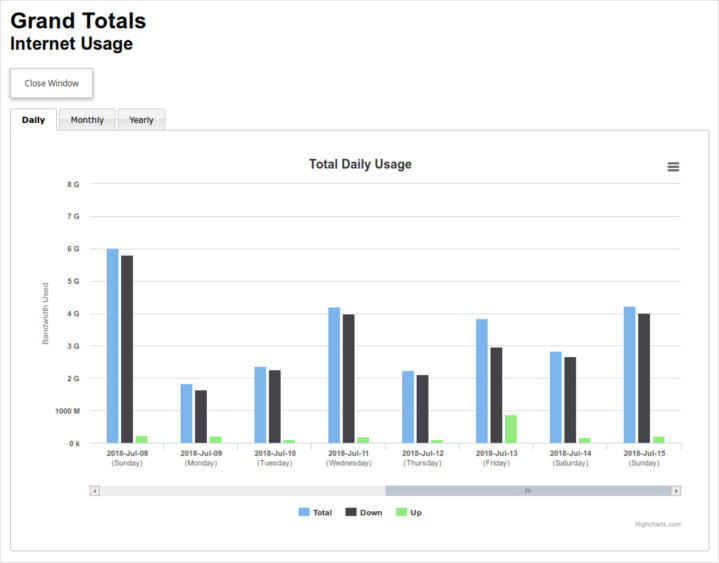
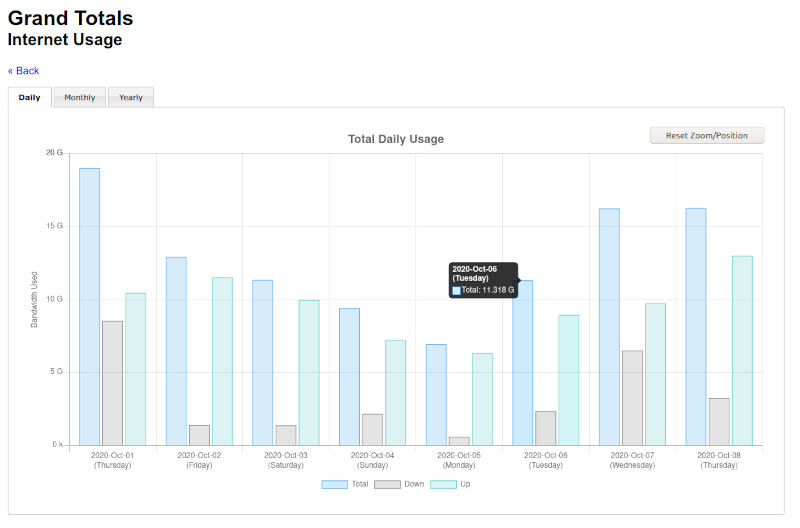
Documentation update.

diff --git a/README.md b/README.md
@@ -1,22 +1,23 @@
 # wrtbwmon-remixed
 https://github.com/nyanginator/wrtbwmon-remixed
 
-* Adapted from https://code.google.com/p/wrtbwmon/.
-* Uses HighCharts and HighStock under the non-commercial license (https://shop.highsoft.com/faq/non-commercial). For commercial use, please purchase a license from HighSoft.
-* Uses CC0 code HighChartsAdapter and runOnLoad from https://code.iamkate.com.
-* Uses SortTable from Stuart Langridge (https://www.kryogenix.org/code/browser/sorttable/).
-* Uses Tabbed Content from menucool.com (http://www.menucool.com/tabbed-content).
+* Adapted from https://code.google.com/p/wrtbwmon
+* Uses [Chart.js](https://www.chartjs.org) and the [chartjs-zoom-plugin](https://github.com/chartjs/chartjs-plugin-zoom), which requires [Hammer.js](https://hammerjs.github.io)
+* Uses [SortTable](https://www.kryogenix.org/code/browser/sorttable/) by Stuart Langridge
+* Uses [Tabbed Content](http://www.menucool.com/tabbed-content) by menucool.com
 
 Table of Contents
 =================
 * [What This Is](#what-this-is)
+  * [Original `wrtbwmon`](#original-wrtbwmon)
+  * [Overview of `wrtbwmon-remixed`](#overview-of-wrtbwmon-remixed)
 * [Setup](#setup)
   * [USB Drive](#usb-drive)
   * [Cron](#cron)
 * [Viewing the Usage](#viewing-the-usage)
 * [Config File](#config-file)
   * [Basic Settings](#basic-settings)
-  * [Watch List](#watch-list)
+  * [Watch Lists](#watch-lists)
 * [Users File](#users-file)
 * [Usage File](#usage-file)
   * [File Format](#file-format)
@@ -45,38 +46,47 @@ What This Is
   - Today Downloaded
   - Today Uploaded
   - Last Update (Last Seen)
-* Added colors, download/upload icons, and formatting.
-* Added sortable table columns.
-* Added a table search filter and totals for filtered results.
-* Added clickable rows for viewing detailed usage. Animated charts are viewable on tabs for daily, monthly, and yearly usage.
-* Added a Grand Total row.
-* Added a "Watch List" option, which will automatically turn on/off Internet for specifed user names based on a quota.
-* Added a config file for easier setting of variables.
+* Added colors and formatting
+* Added sortable table columns
+* Added a table search filter
+* Added clickable rows for viewing detailed usage
+* Animated charts (using Chart.js) are viewable on tabs for daily, monthly, and yearly usage
+* Added a Grand Total row
+* Added Watch Lists to manage user quotas, which will automatically turn on/off Internet for devices
+* Added a config file for easier setting of variables
 
 Original `wrtbwmon`
 --------------------------------
+The original `wrtbwmon` included the possibility of tracking peak and offpeak usage separately. `wrtbwmon-remixed` does not make use of this feature.
+
 ![Original wrtbwmon](https://raw.githubusercontent.com/nyanginator/wrtbwmon-remixed/master/screenshots/screenshot-original.jpg)
 
-`wrtbwmon-remixed`
+Overview of `wrtbwmon-remixed`
 -------------------------------
-Main Page:
+Here is the revised main page:
 
 ![wrtbwmon-remixed](https://raw.githubusercontent.com/nyanginator/wrtbwmon-remixed/master/screenshots/screenshot-remixed.jpg)
 
-Watch List and Search Filter:
+Watch Lists appear at the top of the page and indicate whether anybody is close to or over a list's set quota:
 
-![wrtbwmon Filter/Watch List](https://raw.githubusercontent.com/nyanginator/wrtbwmon-remixed/master/screenshots/screenshot-filter-watchlist.jpg)
+![wrtbwmon Watch List](https://raw.githubusercontent.com/nyanginator/wrtbwmon-remixed/master/screenshots/screenshot-watchlist.jpg)
 
-Details Page:
+The search filter adjusts the totals row based on the current search results:
+
+![wrtbwmon Search Filter](https://raw.githubusercontent.com/nyanginator/wrtbwmon-remixed/master/screenshots/screenshot-search-filter.jpg)
+
+Clicking on any row will bring up the details page:
 
 ![wrtbwmon-remixed Details](https://raw.githubusercontent.com/nyanginator/wrtbwmon-remixed/master/screenshots/screenshot-details.jpg)
+
+Use the mouse-wheel (or pinch) to zoom in/out of the chart. Click-and-drag (or touch-drag) to pan.
 
 Setup
 =====
 
 USB Drive
 ---------
-It's easiest to simply run the script off a USB drive plugged into the router. While this means your router needs to have a USB port, this option is more convenient than trying to hack the hardware or setup a network location for the script.
+It's easiest to simply run the script off a USB drive plugged into the router. While this means your router needs to have a USB port, I find this option more convenient than trying to modify the hardware or setup a network location for the script.
 
 First go to the DD-WRT control panel and check that Services > USB are as follows:
 
@@ -88,38 +98,37 @@ Format a USB drive and copy all of the `wrtbwmon-remixed` files onto it. Plug it
 
 Cron
 ----
-Go to Administration > Management and find the `cron` section. At minimum, you should have:
+Go to Administration > Management and find the `cron` section. At minimum, you should have 3 lines:
 ```
 * * * * * root /tmp/mnt/sda1/setup
 */4 * * * * root /tmp/mnt/sda1/update
 */15 * * * * root /tmp/mnt/sda1/publish
 ```
-This will keep monitoring the traffic every minute (setup), update the usage numbers every 4 minutes (update), and publish to the router's webpage every 15 minutes (update). To speed up the process, SSH into the router and manually update and publish using the command:
+This will keep monitoring the traffic every minute (`setup`), update the usage numbers every 4 minutes (`update`), and publish to the router's webpage every 15 minutes (`publish`). You can SSH into the router to manually update and publish using the command:
 ```
 $ /tmp/mnt/sda1/unp
 ```
 
-In case the router resets, you can use the `restore` script to try restoring usage.db, users.txt, and the reports directory from the USB drive, assuming `backupmin` or `backupkeep` was used at some point to create a backup. To automate this, add these lines to cron:
+If the router is rebooted, you can use the `restore` script to try restoring `usage.db`, `users.txt`, and the `reports` directory from the USB drive, assuming `backupmin` or `backupkeep` was used at some point to create a backup. To automate this, add these lines to cron:
 ```
 * * * * * root /tmp/mnt/sda1/restore
 15 */2 * * * root /tmp/mnt/sda1/backupmin
 0 0 * * * root /tmp/mnt/sda1/backupkeep
 ```
-The `restore` script checks to see if usage.db is missing (which it would be if the router was reset). If it is, then a restore is attempted. File and folder permissions are refreshed as well. The `backupmin` line copies usage.db, users.txt, and the reports directory to the USB drive every 2 hours. The `backupkeep` line makes a daily backup to the `backups` directory on the USB drive.
+The first line runs `restore` every minute to check whether `usage.db` is missing (which it would be if the router was rebooted) and restores based on that. File and folder permissions are refreshed as well. The `backupmin` line copies `usage.db`, `users.txt`, and the `reports` directory to the USB drive every 2 hours. The `backupkeep` line makes a daily backup to the `backups` directory on the USB drive. If you look at the `backupkeep` script, you will see that `keep` is specified, which means not to reset counters. If you did want to backup and reset everybody's counters at the same time, then `forget` should be specified instead of `keep`.
 
-If there is a set day to reset everybody's quota, you can add a line for that as well:
+If there is a set day to reset everybody's counters, you can add a line for that as well. This performs a reset on the first of every month:
 ```
 0 0 1 * * root /tmp/mnt/sda1/reset
 ```
-This line resets everybody's quota on the first of every month.
 
 Viewing the Usage
 =================
-After the script has been properly setup, updated, and published, you can view the table and graphs at:
+After the script has run through at least one cycle of `setup`, `update`, and `publish`, you can view the table and charts at:
 ```
 http://192.168.1.1/user/usage.htm
 ```
-If you specify `WWWSUBDIR` in the config file, then you need to adjust the path accordingly. For example:
+If you specify `WWWSUBDIR` in the config file, then adjust the path accordingly. For example:
 ```
 http://192.168.1.1/user/WWWSUBDIR/usage.htm
 ```
@@ -130,31 +139,54 @@ Config File
 Basic Settings
 --------------
 The config file stores mostly optional information. Fill them in according to your preferences.
-* `AXISSTARTDATE` - Unix time for what the earliest date on the graph axis should be.
-* `PAGETITLE` - Set your page title here.
-* `HEADING` - Set a page subtitle/heading here.
-* `DESCRIPTION` - Set a page description here.
-* `MBTOTALQUOTA` - This is displayed in the Grand Total row, to let users now what the grand total quota is.
-* `WWWSUBDIR` - Optional subdirectory.
+* `AXISSTARTDATE` - Unix time for what the earliest date on the bar chart's X-axis should be
+* `PAGETITLE` - The page title appears at the very top of the page
+* `HEADING` - The page subtitle/heading appears in a slightly smaller font below the title
+* `DESCRIPTION` - You can include any additional text to appear below the heading here
+* `MBTOTALQUOTA` - The total quota for everybody altogether in MB, which will be shown as the denominator in Grand Total
+* `ROUTERNAME` - Not really essential, but if you plan on ever merging the HTML output from multiple routers onto the same page, you will need a unique name for each router
+* `WWWSUBDIR` - Optional subdirectory for the web directory
 
-Watch List
-----------
-The Watch List is a feature to automatically turn on/off Internet access for devices matching a certain name. The name must be defined in the users.txt file. Watch Lists show up at the top of the page when users are either close to or have exceeded their quota. You can define as many Watch Lists as you want, but be sure to update the `wrtbwmon` script to include them.
+Watch Lists
+-----------
+The Watch List is a feature that automatically turns on/off Internet access for devices matching a certain search string (i.e. a user's name). Devices that should be turned on/off together must all be set in `/tmp/users.txt` with this search string. For example, say Calvin has 3 devices. In `users.txt`, they might be identified as `Calvin Phone`, `Calvin iPad`, and `Calvin Laptop`. In `config`, `Calvin` should be in the Watch List array.
 
-* `WATCHLISTSTEP` - When users on the Watch List are within 2 increments of this value (in MB), they will show up in the Watch List.
-* `MBQUOTAPERSTUDENT` - The "Students" Watch List quota.
-* `STUDENTWATCHLISTTITLE` - Title for this Watch List.
-* `STUDENTWATCHLISTARRAY` - A space-separated string of names. Names themselves cannot have spaces. For example, `Apple` will match `Apple TV`, `Apple iPad`, and `Apple iPhone`. If the `Apple` user is over the set quota, then all 3 devices will have their Internet shut off. If you want to grant Internet access to user over their quota, prefix their name with `SKIP_`.
+```
+STUDENTWATCHLISTARRAY="Calvin Phoebe Justin"
+```
 
-Another pre-defined Watch List:
-* `MBQUOTAPERGUEST` - The "Guests" Watch List quota.
-* `GUESTWATCHLISTTITLE` - Title for this Watch List.
-* `GUESTWATCHLISTARRAY` - Guest Watch List array.
+If the total usage of Calvin's devices is over the set quota, then all 3 devices will have their connection shut off. If you want to grant access or restore access to a user regardless of the quota, prefix their name with `SKIP_`.
+
+```
+STUDENTWATCHLISTARRAY="SKIP_Calvin Phoebe _Justin SKIP_admin"
+```
+
+Remember that this is a space-separated array (`ash` is limited), so naturally the names themselves cannot have spaces. Names are case-insensitive. Also note that removing a name from the array will not automatically restore access. You must explicitly restore access by adding `SKIP_` to the name in the array and then running `/tmp/mnt/sda1/publish`. Alternatively, you can delete a name from the array, run `iptables -F` (restores access for everybody), and then `/tmp/mnt/sda1/publish` (reimposes Watch List restrictions).
+
+Watch Lists will show up at the top of the usage page when users are either close to or have exceeded their quota. The `config` file has two sample Watch Lists ("Students" and "Guests") for your reference. You can define as many Watch Lists as you want, but be sure to update the `wrtbwmon` script to include any new ones you add. Specifically, look for this line:
+
+```
+# Publish individual watch lists
+publishWatchList "${TOTALSDB}" "${TMPUSAGEHTM}" "${STUDENTWATCHLISTARRAY}" "${MBQUOTAPERSTUDENT}" "${STUDENTWATCHLISTTITLE}"
+```
+Just copy-and-paste this line and update the last 3 variables to whatever you set in `config`. In this example:
+
+```
+MBQUOTAPERSTUDENT="10000"                     # 10G limit per student
+STUDENTWATCHLISTTITLE="Students"              # Title to display
+STUDENTWATCHLISTARRAY="Calvin Phoebe Justin"  # Who to watch
+```
+
+Also in `config`, you can set a "step" value, which defines when to show users who are close to the quota limit:
+
+```
+WATCHLISTSTEP="1000"  # When users are within 2 increments of this value (MB), they will show up in the list
+```
 
 Users File
 ==========
 
-In the `users.txt` file, devices are distinguished by their MAC addresses. Like the original `wrtbwmon`, you can define arbitrary names in users.txt to make it easier to identify each one. The format for each line is a MAC address followed by a comma and name for a single device. Double-quotes are not allowed. For example:
+To define a display name for each MAC address, you should create/edit the file `/tmp/users.txt`. The given `users.txt` file will be copied to `/tmp/` if you run `restore`. Like the original `wrtbwmon`, the format for each line is a MAC address followed by a comma and name. For example:
 ```
 12:ab:34:cd:56:ef, Dad's Laptop
 34:cd:56:ef:78:gh, Dad's Desktop
@@ -165,15 +197,23 @@ Usage File
 
 File Format
 -----------
-The `usage.db` file stores usage information of devices in only the current cycle (since the last reset, or since the script was first run). As with the `users.txt` file, devices are still identified by MAC address. The format is as follows:
+`usage.db` is a text file that stores the data of the current cycle (usage since the last reset, or since the script was first run). As with `users.txt`, devices are identified by MAC address. The format is as follows:
+
 ```
 [MAC address],[kB downloaded],[kB uploaded],[not in use],[not in use],[Unix time of Last Update]
 ```
-There are 2 numbers that used to specify peak/offpeak usage that are currently not in use.
+
+The `[not in use]` numbers were originally used to specify peak/offpeak data in the old `wrtbwmon` and are not used by `wrtbwmon-remixed`.
+
+If you need to modify numbers for daily/monthly/yearly usage, you will need to look in the `/tmp/reports/` directory. Grand total numbers are stored in `daily.db`, `monthly.db`, and `yearly.db`. Individual devices' numbers are stored in similarly named files prefixed with `[MAC address]_`. The format is:
+
+```
+[Unix time of Last Update],[kB downloaded],[kB uploaded],[not in use],[not in use]
+```
 
 Offset Grand Total
 ------------------
-If you are trying to synchronize the Grand Total to the usage reported by your ISP and you find the numbers differ, you can offset it by adding a line with:
+If you are trying to synchronize the Grand Total to the usage reported by your ISP, you can manually offset it by adding a line with:
 
 ```
 00:00:00:00:00:00,0,<OFFSET>,0,0,0
@@ -187,22 +227,26 @@ Freeing Up Space
 
 Backups
 -------
-I recommend a USB drive with 2GB of space, depending on how often you clean out old files. Backups can be safely removed from:
+I recommend a USB drive with 2G of space, depending on how often you clean out old files. On the USB, old backups can be safely removed from:
 
-* bkup/
-* monthlybkup/
+* `/tmp/mnt/sda1/bkup/`
+* `/tmp/mnt/sda1/monthlybkup/`
 
 Reports
 -------
-The `reports` directory stores information on all devices that have ever conected to the router. You can find the daily, monthly, and yearly `.db` files by MAC address and delete devices individually. Note that if you delete files from this directory, you should also delete them from `/tmp/reports`, which is the live copy used for the webpage. The `backupmin` and `backupkeep` commands are what copy the `reports` directory to the USB drive.
+The `backupmin` and `backupkeep` commands copy the `reports` directory to the USB drive. The `reports` directory stores daily/monthly/yearly data on all devices that have ever connected to the router, so it may not be ideal to save everything, especially for temporary devices. Report files are named by MAC address, so you can identify the files by name and edit/delete them as needed.
+
+You will probably want to delete the backup copy at `/tmp/mnt/sda1/reports/` and then make changes in the live copy `/tmp/reports/`. Otherwise, if the backup commands are running on cron, the next backup may copy `/tmp/reports/` over any changes you make to `/tmp/mnt/sda1/reports/`.
 
 Usage
 -----
-You can also delete lines from the `usage.db` file as you see fit. As with the `reports` directory, remember to also update the `/tmp/usage.db` file.
+You can delete lines from the `usage.db` file as you see fit (i.e. devices that you no longer want to track).
+
+As with the `reports` directory, make sure to edit the live copy `/tmp/usage.db` and let the cron backup update `/tmp/mnt/sda1/usage.db` for you.
 
 HTML
 ----
-The webpage files are stores in `/tmp/www`. You can delete whatever files you need to here. On the next `publish`, the necessary HTML files will be regenerated from the `/tmp/reports` directory.
+HTML files for reports are stored in `/tmp/www/reports/`. Each device has a directory named according to its MAC address. You can delete report pages of whatever devices you want, but they will be recreated on the next `publish` if any usage informtion is found in `/tmp/reports/`.
 
 Resetting Usage
 ===============
@@ -216,14 +260,19 @@ COUNTERSTART,0,0,0,0,1530417601
 ```
 The `COUNTERSTART` keyword specifies that the last value on this line is the Unix date denoting the start of this usage cycle. It will show up on the usage page as "Last reset on Sun Jul-01 00:00 EDT 2018".
 
-Of course, after resetting, all devices whose Internet was shut off by the Watch List will have their access resumed.
+After resetting, all devices whose access was shut off by the Watch List will have their connections restored.
 
+You can also do a hard reset, which will permanently delete all usage data, reports, HTML files, and backups:
+
+```
+$ /tmp/mnt/sda1/hardreset
+```
 
 Notes
 =====
-* Make sure your USB drive is functioning properly.
-* The code is not as optimized as it could be, as this project was more of an exercise for me to explore scripting in the limited `ash` shell and play around with some of the possibilities of DD-WRT on my router. Consequently, I was more focused on functionality over performance.
-* I have only tested the script on NETGEAR routers running DD-WRT on a network having no more than about 15-20 connected devices.
+* Make sure your USB drive is functioning properly. Failed read/writes to the drive will result in the script not working correctly.
+* The code is not as optimized as it could be, as this project was more of an exercise for me to explore scripting in the limited `ash` shell and play around with some of the possibilities of DD-WRT on my router.
+* I have only tested the script on NETGEAR routers running DD-WRT on a network having no more than about 15-25 connected devices. You may need to tweak settings according to your setup.
 
 Contact
 =======
